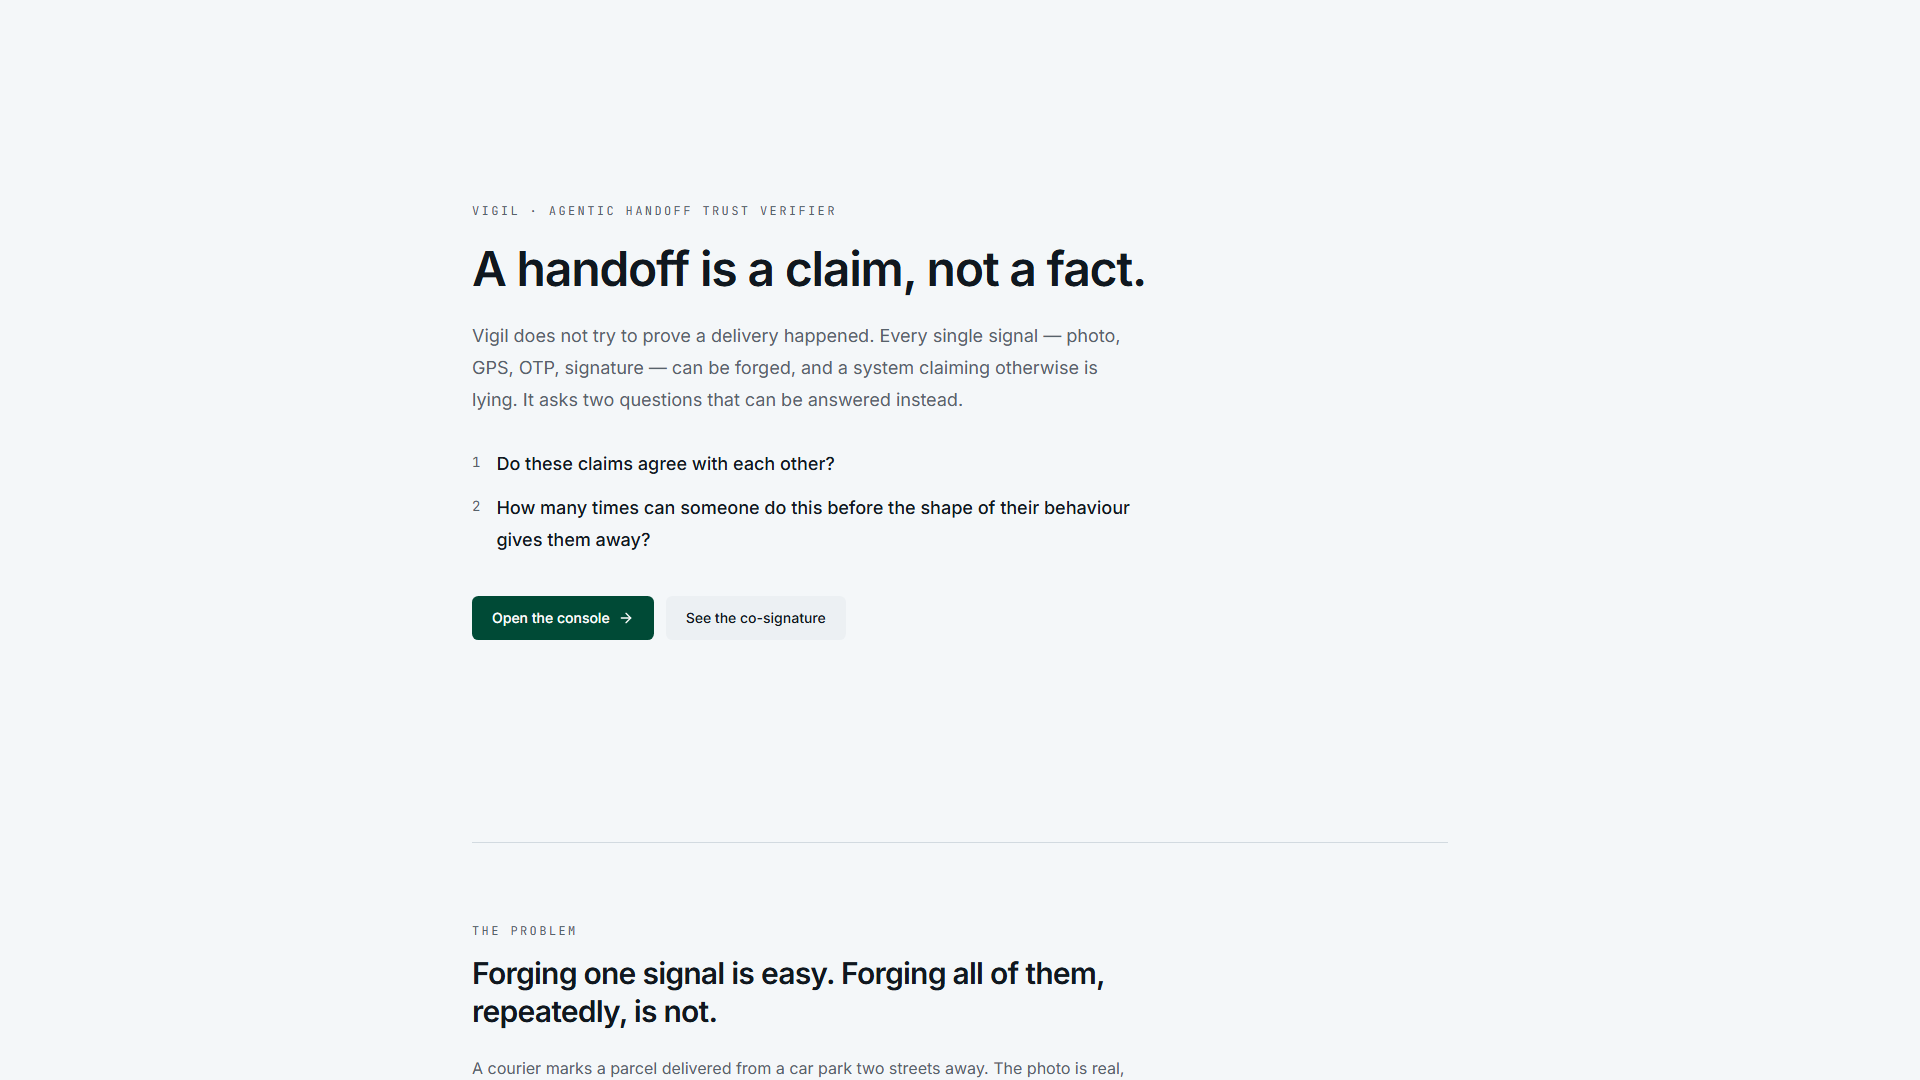
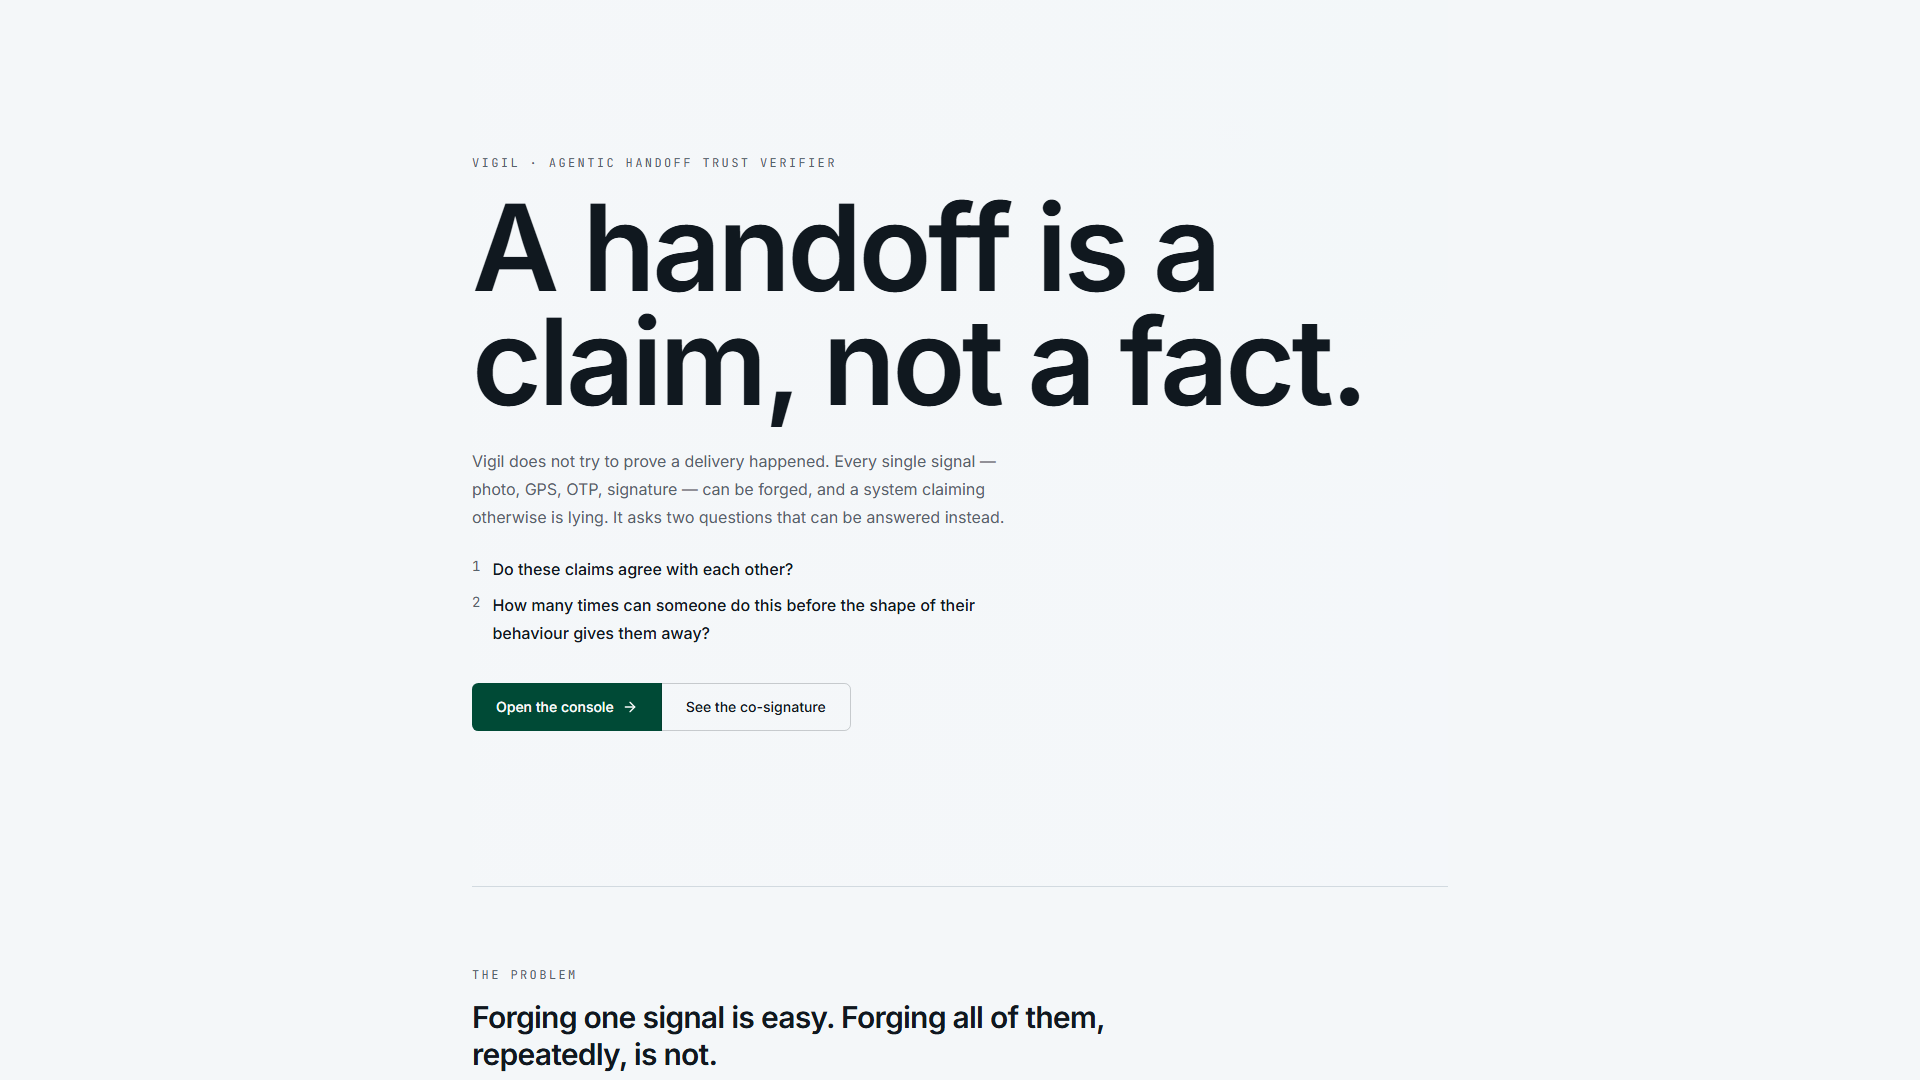
feat(landing): reserve the hero video slot, and let the headline carry
The hero will eventually take a looping background video. It is not
ready and may never be, so the slot is reserved such that adding footage
is a FILE DROP: two strings in lib/landing/hero-media.ts, and nothing
else changes.

planHeroBackdrop is pure and tested, which makes the contract a check
rather than a promise. A source starts playing with no other edit. A
poster without a source shows nothing, because a hero displaying a still
it cannot animate looks like it is waiting for something. And a viewer
who asked their OS for reduced motion is NEVER handed a looping video -
they get the still if one exists and the static layer if not. That
assertion exists now precisely so it cannot be forgotten in the session
that finally adds the file.

HeroBackdrop owns the stacking order internally - ground, media, scrim -
so a future session cannot put footage over the headline. There is no
JSX for anyone to get wrong. Rule 1j: the guarantee belongs to the
component, not to whoever edits the page next.

THE SCRIM SHIPS NOW, AND A PROBE FOUND IT WAS TOO WEAK. A legibility
layer added on the same day as the media is a layer nobody has tested
against media. This one has been over the headline since before any
footage existed - and it is known rather than assumed because I painted
a real screenshot into the media slot and looked at the frame.

At a single horizontal gradient the image was still plainly legible on
the right, and at this type size the headline runs most of the way
[…]

Changed region(s): [[0.2188, 0.1833, 0.7188, 0.7028], [0.25, 0.8861, 0.5938, 1.0]]

diff --git a/components/landing/landing-view.tsx b/components/landing/landing-view.tsx
@@ -1,10 +1,11 @@
 "use client";
 
-import { useEffect, useRef, useState } from "react";
+import { useEffect, useRef, useState, useSyncExternalStore } from "react";
 import Link from "next/link";
 import NumberFlow from "@number-flow/react";
 import { ArrowRight, Monitor, Smartphone } from "lucide-react";
 import { HERO, LIMITS, SECTIONS, type Stat } from "@/lib/landing/content";
+import { HERO_MEDIA, planHeroBackdrop } from "@/lib/landing/hero-media";
 import { cn } from "@/lib/utils";
 import { ArchitectureDiagram } from "./architecture-diagram";
 
@@ -41,42 +42,140 @@ export function LandingView() {
 
 function Hero() {
   return (
-    <header className="flex min-h-[78vh] flex-col justify-center py-20">
+    <header className="relative isolate flex min-h-[82vh] flex-col justify-center py-20">
+      <HeroBackdrop />
+
       <p className="font-mono text-xs uppercase tracking-[0.2em] text-muted-foreground">
         Vigil · agentic handoff trust verifier
       </p>
 
-      <h1 className="mt-6 max-w-3xl text-4xl font-semibold leading-[1.1] tracking-tight sm:text-5xl">
+      {/*
+        THE SIZE CONTRAST IS THE POINT. One sentence gets the whole viewport and
+        everything else is support — a judge reads the claim before they decide
+        whether to read the page. The previous 48/18 pairing was a heading above
+        a paragraph; this is a statement with a caption under it.
+      */}
+      <h1 className="mt-5 max-w-[16ch] text-5xl font-semibold leading-[0.95] tracking-[-0.03em] sm:text-7xl lg:text-[7.5rem]">
         {HERO.title}
       </h1>
 
-      <p className="mt-6 max-w-2xl text-lg leading-8 text-muted-foreground">{HERO.standfirst}</p>
+      <p className="mt-7 max-w-xl text-base leading-7 text-muted-foreground">{HERO.standfirst}</p>
 
-      <ol className="mt-8 max-w-2xl space-y-3">
+      <ol className="mt-6 max-w-xl space-y-2">
         {HERO.questions.map((question, index) => (
-          <li key={question} className="flex gap-4 text-lg leading-8">
-            <span className="mt-1 font-mono text-sm text-muted-foreground">{index + 1}</span>
+          <li key={question} className="flex gap-3 text-base leading-7">
+            <span className="mt-px font-mono text-sm text-muted-foreground">{index + 1}</span>
             <span className="font-medium">{question}</span>
           </li>
         ))}
       </ol>
 
-      <div className="mt-10 flex flex-wrap gap-3">
+      {/*
+        Joined, not spaced. Two buttons sharing an edge read as one control with
+        a default and an alternative; two buttons with a gap read as two equal
+        options, which is not what is being offered. The filled one is where a
+        judge should start.
+      */}
+      <div className="mt-9 flex w-fit flex-wrap">
         <Link
           href="/operator/inbox"
-          className="inline-flex h-11 items-center gap-2 rounded-md bg-primary px-5 text-sm font-medium text-primary-foreground transition-opacity hover:opacity-90"
+          className="inline-flex h-12 items-center gap-2 rounded-l-md bg-primary px-6 text-sm font-medium text-primary-foreground transition-opacity hover:opacity-90"
         >
           Open the console
           <ArrowRight aria-hidden="true" className="size-4" />
         </Link>
         <Link
           href="/demo/cosign"
-          className="inline-flex h-11 items-center gap-2 rounded-md bg-muted px-5 text-sm font-medium transition-colors hover:bg-muted/70"
+          className="-ml-px inline-flex h-12 items-center rounded-r-md border border-foreground/20 px-6 text-sm font-medium transition-colors hover:bg-muted"
         >
           See the co-signature
         </Link>
       </div>
     </header>
+  );
+}
+
+/**
+ * The reserved media slot.
+ *
+ * Everything here is painted today. The gradient is the design; the scrim is
+ * the legibility guarantee; the video is the only missing piece, and it arrives
+ * by setting `HERO_MEDIA.src` in `lib/landing/hero-media.ts` and nothing else.
+ *
+ * STACKING ORDER IS OWNED HERE, not by a caller: static ground, then media,
+ * then scrim, then the page content above all of it. A future session cannot
+ * accidentally put footage over the top of the text, because there is no JSX
+ * for them to write.
+ */
+function HeroBackdrop() {
+  const reducedMotion = usePrefersReducedMotion();
+  const plan = planHeroBackdrop(HERO_MEDIA, { reducedMotion });
+
+  return (
+    <div aria-hidden="true" className="pointer-events-none absolute inset-0 -z-10 overflow-hidden">
+      {/* 1. The static ground. A finished treatment, not a placeholder. */}
+      <div className="absolute inset-0 bg-[radial-gradient(120%_90%_at_78%_15%,var(--color-muted)_0%,transparent_60%)]" />
+
+      {/* 2. The media, when there is any. */}
+      {plan.kind === "video" && (
+        <video
+          className="absolute inset-0 size-full object-cover"
+          src={plan.src}
+          poster={plan.poster ?? undefined}
+          autoPlay
+          muted
+          loop
+          playsInline
+        />
+      )}
+      {plan.kind === "poster" && (
+        /* A decorative backdrop sized entirely by CSS. next/image would add a
+           layout pass and an optimisation pipeline for an image that is always
+           object-cover over a fixed box. */
+        // eslint-disable-next-line @next/next/no-img-element
+        <img className="absolute inset-0 size-full object-cover" src={plan.poster} alt="" />
+      )}
+
+      {/*
+        3. The scrim, ALWAYS, and in TWO layers. White over white today, so it
+        is invisible and changes nothing — that is the guarantee: it has sat
+        over this headline since before any footage existed, so the contrast
+        behind the text is already known rather than re-litigated on the day a
+        video lands.
+
+        TWO LAYERS BECAUSE ONE WAS NOT ENOUGH, and a probe found that rather
+        than a review. Painting a real screenshot into the media slot showed the
+        image still plainly readable on the right at a single horizontal
+        gradient — and at this type size the headline runs most of the way
+        across, so its right-hand half sat over visible imagery. A lighter video
+        would have survived that; a darker one would not.
+
+        The flat wash knocks any media back to texture everywhere. The gradient
+        then adds opacity on the left, where the text actually lives. A
+        background video here is meant to be felt, not watched.
+      */}
+      <div className="absolute inset-0 bg-background/88" />
+      <div className="absolute inset-0 bg-gradient-to-r from-background via-background/90 to-transparent" />
+    </div>
+  );
+}
+
+/**
+ * Subscribed rather than read in an effect.
+ *
+ * `useSyncExternalStore` is the idiomatic way to read a media query: it avoids
+ * a state write in an effect body, keeps the server snapshot explicit, and
+ * updates if the viewer changes the setting while the page is open.
+ */
+function usePrefersReducedMotion(): boolean {
+  return useSyncExternalStore(
+    (onChange) => {
+      const query = window.matchMedia("(prefers-reduced-motion: reduce)");
+      query.addEventListener("change", onChange);
+      return () => query.removeEventListener("change", onChange);
+    },
+    () => window.matchMedia("(prefers-reduced-motion: reduce)").matches,
+    () => false,
   );
 }
 

diff --git a/lib/landing/hero-media.ts b/lib/landing/hero-media.ts
@@ -1,0 +1,71 @@
+/**
+ * The hero's background media slot, reserved before the media exists.
+ *
+ * THE REQUIREMENT: dropping a video in later must be a FILE DROP, not a
+ * refactor. So the only edit a future session should need is the two strings
+ * below — no JSX changes, no new layers, and above all no revisiting of whether
+ * the headline is still readable.
+ *
+ * That last part is why the scrim ships now rather than with the video. A
+ * legibility layer added at the same time as the media is a layer nobody has
+ * tested against the media; a legibility layer that has been sitting over the
+ * headline for weeks is one whose contrast is already known. Today it grades
+ * white-over-white and is invisible, which is exactly the point — it is already
+ * doing its job, and putting footage underneath changes nothing about the text
+ * on top of it.
+ *
+ * `HeroBackdrop` owns the stacking order internally, so the video CANNOT end up
+ * above the scrim: there is no JSX for a caller to get wrong. See rule 1j — the
+ * guarantee belongs to the component, not to whoever edits the page next.
+ */
+
+export type HeroMedia = {
+  /** e.g. "/hero/loop.mp4". Null until the footage exists. */
+  src: string | null;
+  /**
+   * e.g. "/hero/poster.jpg". Used as the video's own poster AND as the static
+   * image for a viewer who has asked for reduced motion. Null today.
+   */
+  poster: string | null;
+};
+
+/** The one thing a future session edits. Nothing else. */
+export const HERO_MEDIA: HeroMedia = {
+  src: null,
+  poster: null,
+};
+
+export type HeroBackdropPlan =
+  | { kind: "video"; src: string; poster: string | null }
+  | { kind: "poster"; poster: string }
+  | { kind: "none"; reason: "no_source" | "reduced_motion_no_poster" };
+
+/**
+ * What the backdrop should paint, decided before any DOM exists.
+ *
+ * Pure so the reduced-motion contract is a test rather than a claim: a viewer
+ * who asks for reduced motion must never be handed a looping video, and the
+ * page must still look deliberate when they are not.
+ */
+export function planHeroBackdrop(
+  media: HeroMedia,
+  options: { reducedMotion: boolean },
+): HeroBackdropPlan {
+  if (options.reducedMotion) {
+    // A still frame is the honest reduced-motion fallback — same image, no
+    // movement. With no poster there is nothing to show but the static layer,
+    // which is a complete design on its own rather than a placeholder.
+    return media.poster
+      ? { kind: "poster", poster: media.poster }
+      : { kind: "none", reason: "reduced_motion_no_poster" };
+  }
+
+  if (!media.src) {
+    // A poster without a video is just an image, and the hero does not need
+    // one: the gradient layer is the design today. Showing the poster alone
+    // would make the page look like it is waiting for something.
+    return { kind: "none", reason: "no_source" };
+  }
+
+  return { kind: "video", src: media.src, poster: media.poster };
+}

diff --git a/lib/landing/hero-media.test.ts b/lib/landing/hero-media.test.ts
@@ -1,0 +1,65 @@
+import { describe, expect, it } from "vitest";
+import { HERO_MEDIA, planHeroBackdrop, type HeroMedia } from "./hero-media";
+
+const withVideo: HeroMedia = { src: "/hero/loop.mp4", poster: "/hero/poster.jpg" };
+
+describe("the hero backdrop is reserved before the media exists", () => {
+  it("paints nothing but the static layer while there is no source", () => {
+    expect(planHeroBackdrop(HERO_MEDIA, { reducedMotion: false })).toEqual({
+      kind: "none",
+      reason: "no_source",
+    });
+  });
+
+  /**
+   * The whole point of the slot. Adding footage must be two strings and no
+   * other edit — if this test needed changing to accept a video, the slot was
+   * not actually reserved.
+   */
+  it("plays the video the moment a source is supplied, with no other change", () => {
+    expect(planHeroBackdrop(withVideo, { reducedMotion: false })).toEqual({
+      kind: "video",
+      src: "/hero/loop.mp4",
+      poster: "/hero/poster.jpg",
+    });
+  });
+
+  it("carries a video that has no poster rather than refusing to play it", () => {
+    expect(planHeroBackdrop({ src: "/hero/loop.mp4", poster: null }, { reducedMotion: false })).toEqual(
+      { kind: "video", src: "/hero/loop.mp4", poster: null },
+    );
+  });
+
+  /**
+   * THE CONTRACT THAT MATTERS MOST, asserted now so it cannot be forgotten in
+   * the session that finally adds the file. A viewer who has asked their
+   * operating system for less motion must never be handed a looping video.
+   */
+  it("never hands a looping video to a viewer who asked for reduced motion", () => {
+    const plan = planHeroBackdrop(withVideo, { reducedMotion: true });
+
+    expect(plan.kind).not.toBe("video");
+    expect(plan).toEqual({ kind: "poster", poster: "/hero/poster.jpg" });
+  });
+
+  it("falls back to the static layer when reduced motion leaves no still to show", () => {
+    expect(planHeroBackdrop({ src: "/hero/loop.mp4", poster: null }, { reducedMotion: true })).toEqual({
+      kind: "none",
+      reason: "reduced_motion_no_poster",
+    });
+  });
+
+  /**
+   * A poster with no video would make the hero look like it is waiting for
+   * something. The gradient layer is a finished design, not a placeholder.
+   */
+  it("does not show a poster as a substitute for a video that does not exist", () => {
+    expect(planHeroBackdrop({ src: null, poster: "/hero/poster.jpg" }, { reducedMotion: false })).toEqual(
+      { kind: "none", reason: "no_source" },
+    );
+  });
+
+  it("ships with the slot empty", () => {
+    expect(HERO_MEDIA).toEqual({ src: null, poster: null });
+  });
+});

diff --git a/CLAUDE.md b/CLAUDE.md
@@ -1170,6 +1170,59 @@ npm run db:migrate
 
 ## Session log
 
+### Session 20 — the hero video slot, reserved before the video exists (in progress)
+
+665 tests passing, 7 skipped. `tsc --noEmit` clean, eslint clean, the production build clean.
+
+**The slot is reserved so that adding footage is a file drop, not a refactor.** The only edit a
+future session should need is two strings in `lib/landing/hero-media.ts`:
+
+```ts
+export const HERO_MEDIA: HeroMedia = { src: null, poster: null };
+```
+
+`planHeroBackdrop` is pure and tested, so the contract is a check rather than a promise:
+a source starts playing with no other change, a poster without a source shows nothing (a hero
+waiting for something looks unfinished), and **a viewer who asked for reduced motion is never
+handed a looping video** — they get the still if there is one, and the static layer if there is
+not. That last assertion exists now precisely so it cannot be forgotten in the session that
+finally adds the file.
+
+`HeroBackdrop` owns the stacking order internally — ground, media, scrim — so a future session
+**cannot** put footage over the headline. There is no JSX for them to get wrong. Rule 1j: the
+guarantee belongs to the component, not to whoever edits the page next.
+
+#### The scrim shipped early on purpose, and a probe found it was too weak
+
+A legibility layer added on the same day as the media is a layer nobody has tested against the
+media. This one has been sitting over the headline since before any footage existed, so the
+contrast is already known.
+
+**Known because it was measured, not asserted.** A real screenshot was painted into the media slot
+and the frame read: at a single horizontal gradient the image was still plainly legible on the
+right, and at this type size the headline runs most of the way across, so its second half sat over
+visible imagery. A light video would have survived that; a dark one would not.
+
+It is now two layers — a flat 88% wash that reduces any media to texture, plus a gradient adding
+opacity on the left where the text lives. Re-probed: the same screenshot is a ghost and the
+headline is crisp over it. **A screenshot dense with text is a far harsher backdrop than video
+will ever be**, which is what makes it the right probe.
+
+#### Two things taken from sui.io's hero, and four deliberately not
+
+Taken: the **extreme headline-to-subhead contrast** (the old 48/18 pairing was a heading above a
+paragraph; it is now a statement with a caption under it, roughly 7x at the large breakpoint), and
+**two adjacent buttons sharing an edge**, one filled and one outlined. Joined reads as one control
+with a default and an alternative; spaced and equal-weight reads as two options, which is not what
+is being offered.
+
+Not taken: their dark palette, their video, their announcement banner, their multi-level nav.
+The tokens and the three anti-references still bind.
+
+**The outlined button is not a regression of session 19's border pass.** That pass removed *card*
+outlines in the console, where a filled surface already separates from the ground. A button
+outline is an affordance, not a container edge, and this is the narrative surface.
+
 ### Session 19 — role separation, the co-sign split, and the landing page (complete)
 
 658 tests passing, 7 skipped. `tsc --noEmit` clean, eslint clean, the production build clean.
